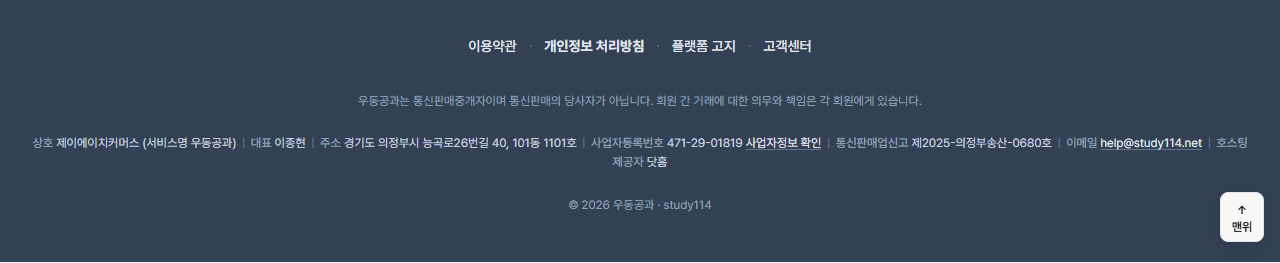
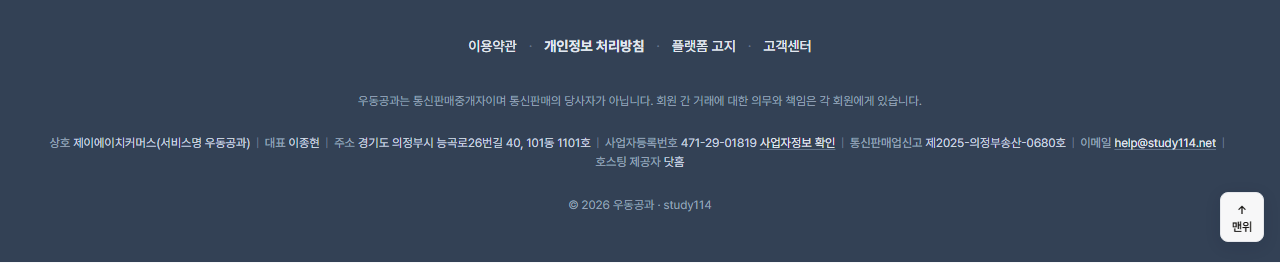
370-보완1: 상호 공백·nowrap·MVC auth 푸터 맞춤
상호 괄호 앞 공백을 제거하고 960px 이상 라벨-값 nowrap을 적용한다. PHP MVC auth 레이아웃에도 동일 사업자·고지·정책 링크를 넣는다.

Changed region(s): [[0.0312, 0.5171, 0.9688, 0.6388]]

diff --git a/public/assets/css/auth/mvc.css b/public/assets/css/auth/mvc.css
@@ -40,6 +40,72 @@
   padding: 1rem;
   font-size: var(--text-xs, 0.75rem);
   color: var(--gray-400, #9ca3af);
+  display: flex;
+  flex-direction: column;
+  align-items: center;
+  gap: 0.75rem;
+}
+
+.auth-shell__footer-links {
+  display: flex;
+  flex-wrap: wrap;
+  justify-content: center;
+  align-items: center;
+  gap: 0.25rem 0;
+}
+
+.auth-shell__footer-links a {
+  color: var(--gray-600, #4b5563);
+  text-decoration: none;
+  padding: 0 0.5rem;
+}
+
+.auth-shell__footer-links a:hover,
+.auth-shell__footer-links a:focus-visible {
+  color: var(--gray-900, #111827);
+  text-decoration: underline;
+}
+
+.auth-shell__footer-sep {
+  color: var(--gray-300, #d1d5db);
+  user-select: none;
+}
+
+.auth-shell__footer-notice,
+.auth-shell__footer-company,
+.auth-shell__footer-legal {
+  margin: 0;
+  max-width: 42rem;
+  line-height: 1.6;
+}
+
+.auth-shell__footer-company-label {
+  font-weight: 500;
+  color: var(--gray-500, #6b7280);
+}
+
+.auth-shell__footer-company-sep {
+  margin: 0 0.45em;
+  color: var(--gray-300, #d1d5db);
+  user-select: none;
+}
+
+.auth-shell__footer-biz,
+.auth-shell__footer-mail {
+  color: var(--gray-600, #4b5563);
+  text-decoration: underline;
+}
+
+@media (min-width: 960px) {
+  .auth-shell__footer-company-item {
+    white-space: nowrap;
+  }
+}
+
+@media (max-width: 959px) {
+  .auth-shell__footer-company-item {
+    white-space: normal;
+  }
 }
 
 .field-db-name {

diff --git a/preview/shared/site-footer.js b/preview/shared/site-footer.js
@@ -16,7 +16,7 @@ export const SITE_FOOTER_COPYRIGHT = '© 2026 우동공과 · study114';
  * phone 이 비어 있으면 전화 줄은 숨긴다. hosting 상호 확정 시 이 값만 바꾼다.
  */
 export const SITE_FOOTER_COMPANY = {
-  name: '제이에이치커머스 (서비스명 우동공과)',
+  name: '제이에이치커머스(서비스명 우동공과)',
   ceo: '이종현',
   address: '경기도 의정부시 능곡로26번길 40, 101동 1101호',
   bizNo: '471-29-01819',

diff --git a/preview/home-ui/src/styles/udx-std-apply.css b/preview/home-ui/src/styles/udx-std-apply.css
@@ -701,6 +701,12 @@ table {
   display: inline;
 }
 
+@media (min-width: 960px) {
+  .site-footer__company-item {
+    white-space: nowrap;
+  }
+}
+
 .site-footer__company-sep {
   display: inline;
   margin: 0 0.45em;
@@ -744,6 +750,10 @@ table {
 @media (max-width: 959px) {
   .site-footer__company {
     max-width: 100%;
+  }
+
+  .site-footer__company-item {
+    white-space: normal;
   }
 }
 

diff --git a/src/Views/partials/site-footer-legal.php b/src/Views/partials/site-footer-legal.php
@@ -1,0 +1,53 @@
+<?php
+
+declare(strict_types=1);
+
+use Study114\Site\SiteFooterCopy;
+
+$company = SiteFooterCopy::company();
+$links = SiteFooterCopy::policyLinks();
+$items = [];
+
+$push = static function (string $label, string $valueHtml) use (&$items): void {
+    if (trim(strip_tags($valueHtml)) === '') {
+        return;
+    }
+    $items[] = ['label' => $label, 'valueHtml' => $valueHtml];
+};
+
+$push('상호', study114_e($company['name']));
+$push('대표', study114_e($company['ceo']));
+$push('주소', study114_e($company['address']));
+$bizCheck = $company['bizCheckUrl'] !== ''
+    ? ' <a class="auth-shell__footer-biz" href="' . study114_e($company['bizCheckUrl']) . '" target="_blank" rel="noopener noreferrer">사업자정보 확인</a>'
+    : '';
+$push('사업자등록번호', study114_e($company['bizNo']) . $bizCheck);
+$push('통신판매업신고', study114_e($company['mailOrder']));
+if (trim($company['email']) !== '') {
+    $mail = $company['email'];
+    $push(
+        '이메일',
+        '<a class="auth-shell__footer-mail" href="mailto:' . study114_e($mail) . '">' . study114_e($mail) . '</a>',
+    );
+}
+if (trim($company['phone']) !== '') {
+    $push('전화', study114_e($company['phone']));
+}
+$push('호스팅 제공자', study114_e($company['hosting']));
+?>
+<nav class="auth-shell__footer-links" aria-label="정책 및 고객센터">
+  <?php foreach ($links as $i => $link): ?>
+    <?php if ($i > 0): ?><span class="auth-shell__footer-sep" aria-hidden="true">·</span><?php endif; ?>
+    <a href="<?= study114_e($link['href']) ?>"><?= !empty($link['strong']) ? '<strong>' . study114_e($link['label']) . '</strong>' : study114_e($link['label']) ?></a>
+  <?php endforeach; ?>
+</nav>
+<p class="auth-shell__footer-notice"><?= study114_e(SiteFooterCopy::NOTICE) ?></p>
+<?php if ($items): ?>
+<p class="auth-shell__footer-company">
+  <?php foreach ($items as $i => $item): ?>
+    <?php if ($i > 0): ?><span class="auth-shell__footer-company-sep" aria-hidden="true">|</span><?php endif; ?>
+    <span class="auth-shell__footer-company-item"><span class="auth-shell__footer-company-label"><?= study114_e($item['label']) ?></span> <span class="auth-shell__footer-company-value"><?= $item['valueHtml'] ?></span></span>
+  <?php endforeach; ?>
+</p>
+<?php endif; ?>
+<p class="auth-shell__footer-legal"><?= study114_e(SiteFooterCopy::COPYRIGHT) ?></p>

diff --git a/src/Site/SiteFooterCopy.php b/src/Site/SiteFooterCopy.php
@@ -1,0 +1,57 @@
+<?php
+
+declare(strict_types=1);
+
+namespace Study114\Site;
+
+/**
+ * PHP MVC 푸터 문구 — preview/shared/site-footer.js SITE_FOOTER_* 와 동일 값 유지.
+ */
+final class SiteFooterCopy
+{
+    public const NOTICE =
+        '우동공과는 통신판매중개자이며 통신판매의 당사자가 아닙니다. 회원 간 거래에 대한 의무와 책임은 각 회원에게 있습니다.';
+
+    public const COPYRIGHT = '© 2026 우동공과 · study114';
+
+    /**
+     * @return array{
+     *   name: string,
+     *   ceo: string,
+     *   address: string,
+     *   bizNo: string,
+     *   bizCheckUrl: string,
+     *   mailOrder: string,
+     *   email: string,
+     *   phone: string,
+     *   hosting: string
+     * }
+     */
+    public static function company(): array
+    {
+        return [
+            'name' => '제이에이치커머스(서비스명 우동공과)',
+            'ceo' => '이종현',
+            'address' => '경기도 의정부시 능곡로26번길 40, 101동 1101호',
+            'bizNo' => '471-29-01819',
+            'bizCheckUrl' => 'https://www.ftc.go.kr/bizCommPop.do?wrkr_no=4712901819',
+            'mailOrder' => '제2025-의정부송산-0680호',
+            'email' => 'help@study114.net',
+            'phone' => '',
+            'hosting' => '닷홈',
+        ];
+    }
+
+    /**
+     * @return list<array{href: string, label: string, strong?: bool}>
+     */
+    public static function policyLinks(): array
+    {
+        return [
+            ['href' => '/#/support/policies/terms', 'label' => '이용약관'],
+            ['href' => '/#/support/policies/privacy', 'label' => '개인정보 처리방침', 'strong' => true],
+            ['href' => '/#/support/policies/platform', 'label' => '플랫폼 고지'],
+            ['href' => '/#/support', 'label' => '고객센터'],
+        ];
+    }
+}

diff --git a/src/Views/layouts/auth.php b/src/Views/layouts/auth.php
@@ -23,7 +23,7 @@
       <?= $content ?>
     </main>
     <footer class="auth-shell__footer">
-      <p>study114 MVC · 2·14장 SSOT</p>
+      <?php require dirname(__DIR__) . '/partials/site-footer-legal.php'; ?>
     </footer>
   </div>
 </body>

diff --git a/docs/worklog/2026/11/2026-11-12-370-footer-bizinfo.md b/docs/worklog/2026/11/2026-11-12-370-footer-bizinfo.md
@@ -37,8 +37,16 @@
 
 닷홈 메인 하단 실측 미확정 → **「닷홈」**만 표기. 확인되면 `SITE_FOOTER_COMPANY.hosting`만 수정.
 
+## 370-보완1
+
+1. 상호 괄호 앞 공백 제거
+2. ≥960 `company-item` nowrap · ≤959 자연 줄바꿈
+3. `layouts/auth.php` **사용 중** (`/auth/login|find-id|find-password`) → `SiteFooterCopy` + partial로 동일 문구 반영
+4. tip hash를 실제 tip으로 갱신
+5. 홈 푸터 1280·390 재캡처
+
 ## 커밋
 
-- tip: `87d34c51` — `370: 푸터 사업자정보 단일 상수 표기`
-- push: 미실시 (지시 대기)
-- 캡처·스크립트 포함
+- tip: (보완1 커밋 후 기입)
+- 이전: `167231d9` docs · `87d34c51` 370 본문
+- push: `167231d9`까지 완료 · 보완1 후 재push
